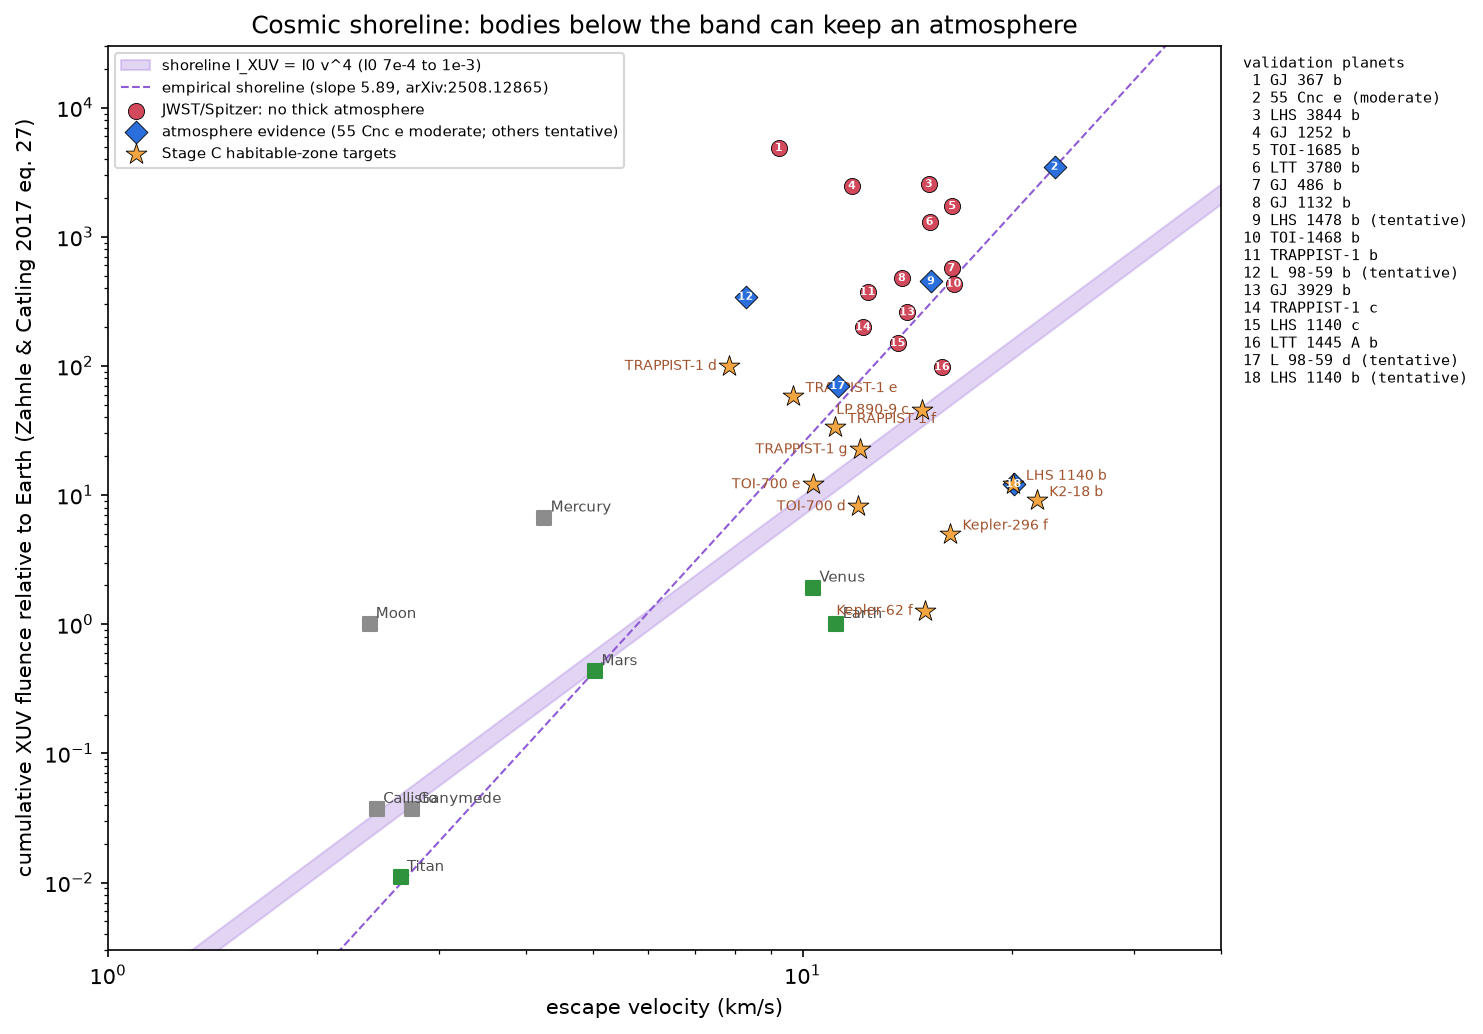
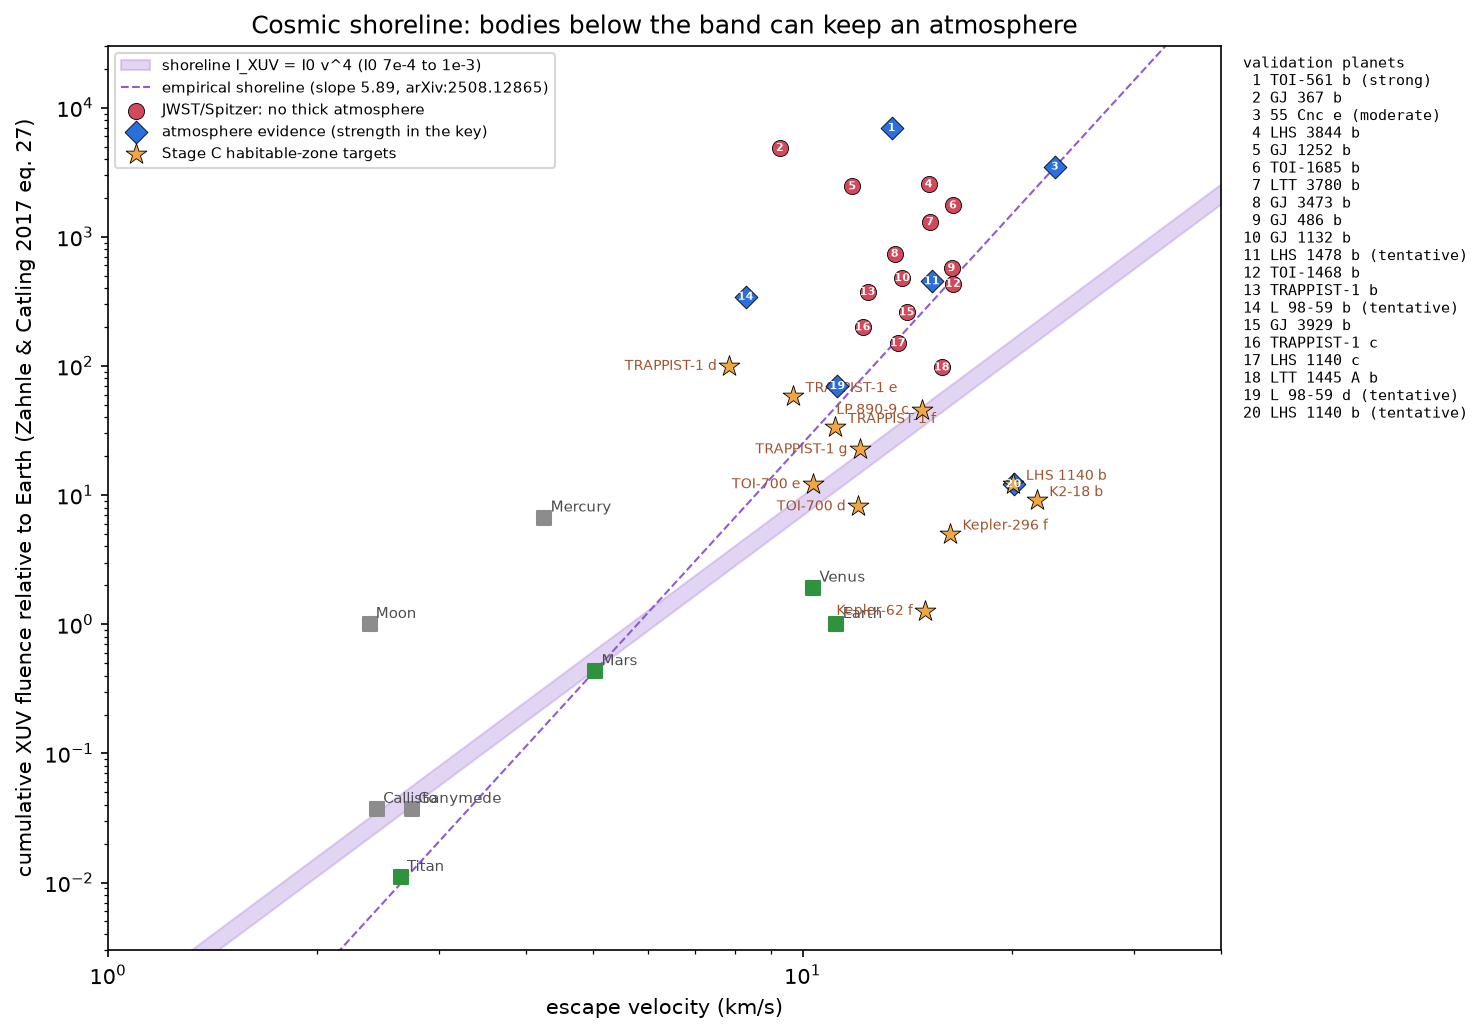
Test the cosmic shoreline on two more rocky planets, including TOI-561 b
GJ 3473 b (Hot Rocks V, 2026) joins the airless side as expected: 14 of
14 no-thick-atmosphere planets now sit there. TOI-561 b (Teske et al.
2025), the first strong atmosphere detection on a rocky planet, sits
2.4 dex on the airless side, so the margin no longer separates
atmosphere evidence (ROC-AUC 0.55). Both strong counter-examples are
magma-ocean lava worlds that cumulative escape does not describe; the
write-up now says the shoreline is a prior supported only on its
airless side. Sources for LTT 1445 A b and GJ 3929 b are upgraded to
the papers themselves.

diff --git a/stage_c_priority_fusion/validate_shoreline.py b/stage_c_priority_fusion/validate_shoreline.py
@@ -112,7 +112,7 @@ def make_figure(v: pd.DataFrame, ss: pd.DataFrame):
         d = vv[vv.status == status]
         ax.scatter(d.v_esc_kms, d.cumulative_xuv_earth, color=c, marker=m, s=60, edgecolor="k", linewidth=0.4, zorder=4,
                    label={"no_thick_atmosphere": "JWST/Spitzer: no thick atmosphere",
-                          "atmosphere_evidence": "atmosphere evidence (55 Cnc e moderate; others tentative)"}[status])
+                          "atmosphere_evidence": "atmosphere evidence (strength in the key)"}[status])
     for i, r in vv.iterrows():
         ax.annotate(str(i + 1), (r.v_esc_kms, r.cumulative_xuv_earth), fontsize=5.5, ha="center", va="center",
                     color="white", fontweight="bold", zorder=6)

diff --git a/eda/STAGE_C_RESULTS.md b/eda/STAGE_C_RESULTS.md
@@ -77,7 +77,7 @@ on the catalogue's upper and lower errors).
 
 ## 2b. Can they keep an atmosphere? The cosmic shoreline (added 2026-10-18)
 
-**Why.** The habitable zone says whether liquid water is *possible* under an atmosphere. It does not say whether the planet can keep one. JWST has now found no thick atmosphere on 13 rocky planets, all around M dwarfs (table below). The best-known explanation is the **cosmic shoreline** (Zahnle & Catling 2017, ApJ 843, 122): bodies with low escape velocity and high cumulative XUV exposure lose their atmospheres.
+**Why.** The habitable zone says whether liquid water is *possible* under an atmosphere. It does not say whether the planet can keep one. JWST (and Spitzer) have now found no thick atmosphere on 14 rocky planets, all around M dwarfs (table below; extended to 20 planets on 2026-10-18). The best-known explanation is the **cosmic shoreline** (Zahnle & Catling 2017, ApJ 843, 122): bodies with low escape velocity and high cumulative XUV exposure lose their atmospheres.
 
 **Definition** (`stage_c_priority_fusion/cosmic_shoreline.py`).
 - **Escape velocity:** v_esc = 11.19 km/s × √(M_p/R_p).
@@ -89,14 +89,27 @@ on the catalogue's upper and lower errors).
 
 | Shoreline definition | JWST/Spitzer "no thick atmosphere" planets on its airless side | Atmosphere-evidence planets on its atmosphere side | Solar System correct |
 |---|---|---|---|
-| **XUV, slope 4 (used)** | **13 / 13** | 1 / 5 | **7 / 8** (Ganymede misses by 0.03–0.2 dex) |
-| empirical, slope 5.89 (arXiv:2508.12865) | 10 / 13 (puts LTT 1445 A b, LHS 1140 c, TOI-1468 b on the wrong side) | 1 / 5 | 7 / 8 (Titan wrong) |
-| bolometric I = 10⁻⁴ v_esc⁴ | 11 / 13 | 1 / 5 | 5 / 8 |
+| **XUV, slope 4 (used)** | **14 / 14** | 1 / 6 | **7 / 8** (Ganymede misses by 0.03–0.2 dex) |
+| empirical, slope 5.89 (arXiv:2508.12865) | 11 / 14 (puts LTT 1445 A b, LHS 1140 c, TOI-1468 b on the wrong side) | 1 / 6 | 7 / 8 (Titan wrong) |
+| bolometric I = 10⁻⁴ v_esc⁴ | 12 / 14 (TRAPPIST-1 c, LTT 1445 A b wrong) | 1 / 6 | 5 / 8 |
+
+**Additions on 2026-10-18** (each checked against the paper itself):
+- **GJ 3473 b** (Hot Rocks Survey V, Holmberg et al. 2026): thick CO₂ excluded, bare rock not settled; entered as tentative.
+- **TOI-561 b** (Teske et al. 2025, ApJL): the first *strong* atmosphere detection on a rocky planet. The dayside is far cooler than bare rock allows.
+- **Better sources** for LTT 1445 A b (Wachiraphan et al. 2025, AJ 169, 311: pure CO₂ disfavoured at 4.2σ at 1 bar) and GJ 3929 b (the four-visit Rocky Worlds result, 2026).
 
 - **The XUV shoreline is contradicted by no bare-rock result.** The four "atmosphere" planets on its airless side are not counter-examples to *retention*:
   - 55 Cnc e's atmosphere is thought to be resupplied by a magma ocean (Hu et al. 2024).
   - L 98-59 b and d and LHS 1478 b are tentative (2.6–3.6σ), and two of them are proposed volcanic atmospheres.
 - **Limit:** almost every observed planet lies on the airless side. The validation tests the shoreline's "airless" predictions far better than its "keeps an atmosphere" predictions. Only LHS 1140 b, with a tentative atmosphere, sits on the atmosphere side.
+- **TOI-561 b breaks the shoreline as a general rule.**
+  - It has a strong atmosphere detection, yet sits 2.4 dex deep on the airless side.
+  - Across all 20 planets, the shoreline margin does not separate atmosphere evidence from its absence: ROC-AUC 0.55, or 0.32 counting only the moderate and strong cases.
+  - Both strong counter-examples, 55 Cnc e and TOI-561 b, are ultra-short-period lava worlds whose magma oceans resupply volatiles (Hu et al. 2024; Teske et al. 2025). Cumulative escape, the shoreline's only physics, does not describe them.
+- **What this means for the ranking.**
+  - The targets ranked here are temperate (T_eq ≈ 200–300 K), with no magma ocean, so that resupply route is closed. The shoreline remains the relevant prior for them.
+  - It is a prior supported only on its airless side: no temperate rocky planet yet has a confirmed atmosphere to test the other side.
+  - This is why `rank_without_retention` is kept in the table, and why the ablation (§3) reports the ranking without it.
 
 **How it enters the score.** It is combined with size: the component is P(R_p < 1.5 R⊕ *and* atmosphere side), and the weights are unchanged. A separate fourth term was tried first and rejected: it put hot Jupiters in the top 15 for trivially keeping their H/He envelopes.
 
